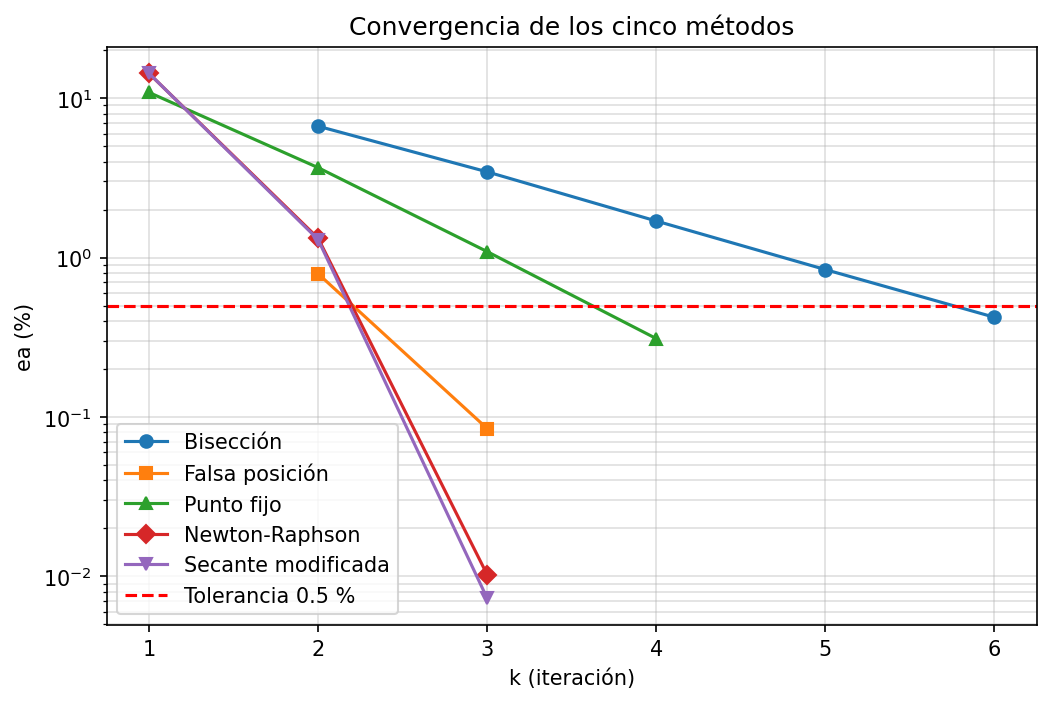
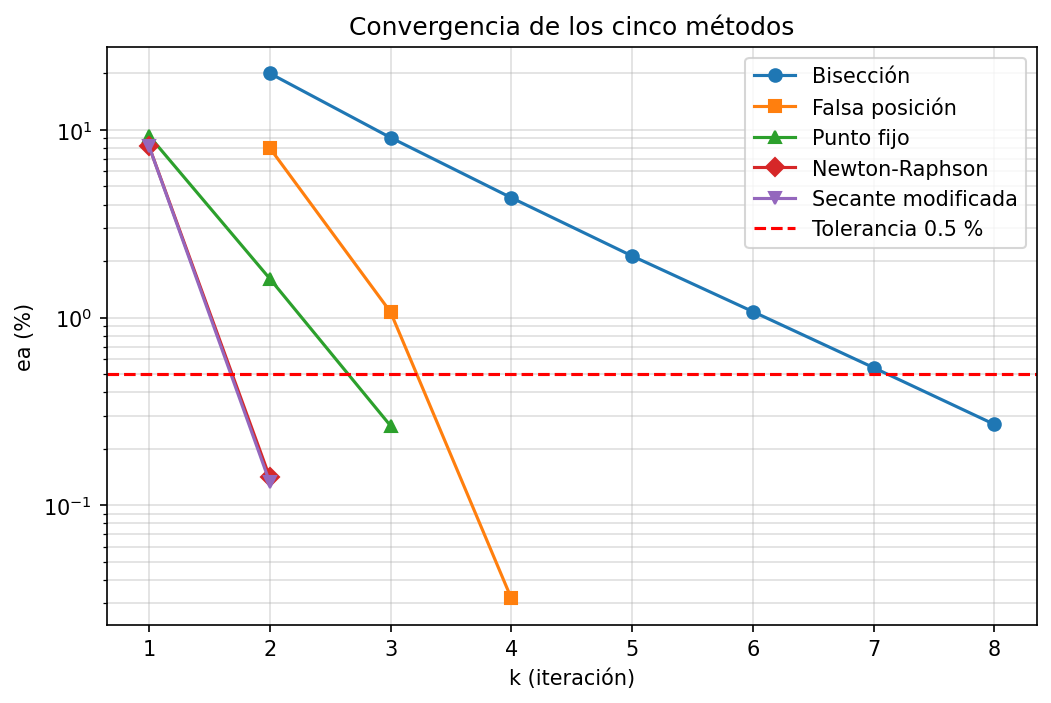
Apply equation 14 (RL rectifier) and add screenshots
- raices.c, raices.py: replace the problem block with equation 14
  (half-wave rectifier with RL load), interval [3, 6], x0 = 4, delta = 0.01.
- raices.py: complete graficar() and regenerate funcion.png and
  convergencia.png.
- Add C (05) and Python (06) execution screenshots.
- C and Python tables match; SciPy reference root: 4.350505468.

Changed region(s): [[0.0304, 0.0597, 1.0, 0.926], [0.0609, 0.5676, 0.0913, 0.5974], [0.0304, 0.7169, 0.0609, 0.7468]]

diff --git a/practica2/raices.c b/practica2/raices.c
@@ -9,47 +9,39 @@
  * Dentro del contenedor, en la carpeta practica2:
  *     gcc -O2 -std=c17 -Wall -o raices raices.c -lm
  *     ./raices
- *
- * Faltan cinco líneas, marcadas COMPLETAR 1 a COMPLETAR 5. Mientras falten,
- * el programa compila y corre, pero las tablas salen mal.
  */
 #include <math.h>
 #include <stdio.h>
 
 /* ======================== BLOQUE DEL PROBLEMA ======================== */
-/* Es lo único que se cambia para resolver otra ecuación (ejercicio 4).  */
+/* Ecuación 14 · Electrónica · Ángulo de extinción de un rectificador de media onda con carga RL */
 
-#define DESCRIPCION "f(c) = g m / c (1 - exp(-c t / m)) - v,  g = 9.8, m = 68.1, t = 10, v = 40"
-#define DESCR_G     "g(c) = g m / v (1 - exp(-c t / m))"
+#define DESCRIPCION "f(b) = sin(b) - Q cos(b) + Q exp(-b / Q),  Q = wL/R = 2"
+#define DESCR_G     "g(b) = b + f(b) / 2"
 
-static const double GRAV   = 9.8;    /* gravedad, m/s^2                    */
-static const double MASA   = 68.1;   /* masa del paracaidista, kg          */
-static const double TIEMPO = 10.0;   /* tiempo de caída, s                 */
-static const double VEL    = 40.0;   /* velocidad medida, m/s              */
+static const double WLR = 2.0;   /* cociente wL/R de la carga */
 
-static const double A = 12.0, B = 16.0;  /* intervalo de los métodos cerrados */
-static const double X0    = 12.5;        /* inicio de los métodos abiertos    */
-static const double DELTA = 0.05;        /* incremento de la secante modificada */
+static const double A = 3.0, B = 6.0;  /* intervalo de los métodos cerrados */
+static const double X0    = 4.0;        /* inicio de los métodos abiertos    */
+static const double DELTA = 0.01;        /* incremento de la secante modificada */
 static const double TOL   = 0.5;         /* tolerancia: ea en %               */
 #define NMAX 50                          /* máximo de iteraciones             */
 
-/* La función cuya raíz se busca: el coeficiente de arrastre c, en kg/s. */
-static double f(double c)
+static double f(double x)
 {
-    return GRAV * MASA / c * (1.0 - exp(-c * TIEMPO / MASA)) - VEL;
+    return sin(x) - WLR*cos(x) + WLR*exp(-x/WLR);
 }
 
 /* Su derivada, para Newton-Raphson. */
-static double fp(double c)
+static double fp(double x)
 {
-    return GRAV * MASA / c * (TIEMPO / MASA) * exp(-c * TIEMPO / MASA)
-         - GRAV * MASA / (c * c) * (1.0 - exp(-c * TIEMPO / MASA));
+    return cos(x) + WLR*sin(x) - exp(-x/WLR);
 }
 
-/* Despeje x = g(x) para punto fijo: c = g m / v (1 - exp(-c t / m)). */
-static double g(double c)
+/* Despeje x = g(x) para punto fijo. */
+static double g(double x)
 {
-    return GRAV * MASA / VEL * (1.0 - exp(-c * TIEMPO / MASA));
+    return x + f(x)/2;
 }
 
 /* ===================================================================== */
@@ -69,7 +61,7 @@ typedef struct {
 static double error_aprox(double nuevo, double anterior)
 {
     /* COMPLETAR 1. Ojo: en C, abs() es para enteros; para double se usa fabs(). */
-    return  fabs((nuevo - anterior) / nuevo) * 100.0;   /* <- sustituya 0.0 por la expresión correcta */
+    return fabs((nuevo - anterior) / nuevo) * 100.0;
 }
 
 static void fila_cerrado(int k, double a, double b, double x, double ea, int con_ea)
@@ -128,7 +120,7 @@ static Resultado falsa_posicion(double a, double b)
     printf("%s\n", ENC_CERRADO);
     for (int k = 1; k <= NMAX; ++k) {
         /* COMPLETAR 2: el punto donde la recta corta el eje x. */
-        x = b - (f(b) * (a - b)) / (f(a) - f(b));   /* <- sustituya 0.0 por la expresión correcta */
+        x = b - (f(b) * (a - b)) / (f(a) - f(b));
         if (k > 1) ea = error_aprox(x, x_ant);
         fila_cerrado(k, a, b, x, ea, k > 1);
         r.x = x; r.ea = ea; r.k = k;
@@ -152,7 +144,7 @@ static Resultado punto_fijo(double x)
     fila_abierto(0, x, 0.0, 0);
     for (int k = 1; k <= NMAX; ++k) {
         /* COMPLETAR 3: la siguiente aproximación. */
-        x_nuevo = g(x);   /* <- sustituya 0.0 por la expresión correcta */
+        x_nuevo = g(x);
         ea = error_aprox(x_nuevo, x);
         x = x_nuevo;
         fila_abierto(k, x, ea, 1);
@@ -174,7 +166,7 @@ static Resultado newton(double x)
     fila_abierto(0, x, 0.0, 0);
     for (int k = 1; k <= NMAX; ++k) {
         /* COMPLETAR 4: la fórmula de Newton-Raphson, con f y fp. */
-        x_nuevo = x - f(x) / fp(x);   /* <- sustituya 0.0 por la expresión correcta */
+        x_nuevo = x - f(x) / fp(x);
         ea = error_aprox(x_nuevo, x);
         x = x_nuevo;
         fila_abierto(k, x, ea, 1);
@@ -196,7 +188,7 @@ static Resultado secante_modificada(double x, double delta)
     fila_abierto(0, x, 0.0, 0);
     for (int k = 1; k <= NMAX; ++k) {
         /* COMPLETAR 5: la pendiente es (f(x + delta) - f(x)) / delta. */
-        x_nuevo = x - (delta * f(x)) / (f(x + delta) - f(x));   /* <- sustituya 0.0 por la expresión correcta */
+        x_nuevo = x - (delta * f(x)) / (f(x + delta) - f(x));
         ea = error_aprox(x_nuevo, x);
         x = x_nuevo;
         fila_abierto(k, x, ea, 1);

diff --git a/practica2/raices.py b/practica2/raices.py
@@ -22,38 +22,33 @@ import matplotlib.pyplot as plt
 from scipy.optimize import brentq
 
 # ======================== BLOQUE DEL PROBLEMA ========================
-# Es lo único que se cambia para resolver otra ecuación (ejercicio 4).
+# Ecuación 14 · Electrónica · Ángulo de extinción de un rectificador de media onda con carga RL
 
-DESCRIPCION = ("f(c) = g m / c (1 - exp(-c t / m)) - v,  "
-               "g = 9.8, m = 68.1, t = 10, v = 40")
-DESCR_G = "g(c) = g m / v (1 - exp(-c t / m))"
+DESCRIPCION = 'f(b) = sin(b) - Q cos(b) + Q exp(-b / Q),  Q = wL/R = 2'
+DESCR_G = 'g(b) = b + f(b) / 2'
 
-GRAV = 9.8          # gravedad, m/s²
-MASA = 68.1         # masa del paracaidista, kg
-TIEMPO = 10.0       # tiempo de caída, s
-VEL = 40.0          # velocidad medida, m/s
+WLR = 2.0   # cociente wL/R de la carga
 
-A, B = 12.0, 16.0   # intervalo de los métodos cerrados
-X0 = 12.5           # inicio de los métodos abiertos
-DELTA = 0.05        # incremento de la secante modificada
+A, B = 3.0, 6.0   # intervalo de los métodos cerrados
+X0 = 4.0         # inicio de los métodos abiertos
+DELTA = 0.01      # incremento de la secante modificada
 TOL = 0.5           # tolerancia: ea en %
 NMAX = 50           # máximo de iteraciones
 
 
-def f(c):
-    """La función cuya raíz se busca: el coeficiente de arrastre c, en kg/s."""
-    return GRAV * MASA / c * (1.0 - math.exp(-c * TIEMPO / MASA)) - VEL
+def f(x):
+    """La función cuya raíz se busca."""
+    return math.sin(x) - WLR*math.cos(x) + WLR*math.exp(-x/WLR)
 
 
-def fp(c):
+def fp(x):
     """Su derivada, para Newton-Raphson."""
-    return (GRAV * MASA / c * (TIEMPO / MASA) * math.exp(-c * TIEMPO / MASA)
-            - GRAV * MASA / (c * c) * (1.0 - math.exp(-c * TIEMPO / MASA)))
+    return math.cos(x) + WLR*math.sin(x) - math.exp(-x/WLR)
 
 
-def g(c):
-    """Despeje x = g(x) para punto fijo: c = g m / v (1 - exp(-c t / m))."""
-    return GRAV * MASA / VEL * (1.0 - math.exp(-c * TIEMPO / MASA))
+def g(x):
+    """Despeje x = g(x) para punto fijo."""
+    return x + f(x)/2
 
 # =====================================================================
 
